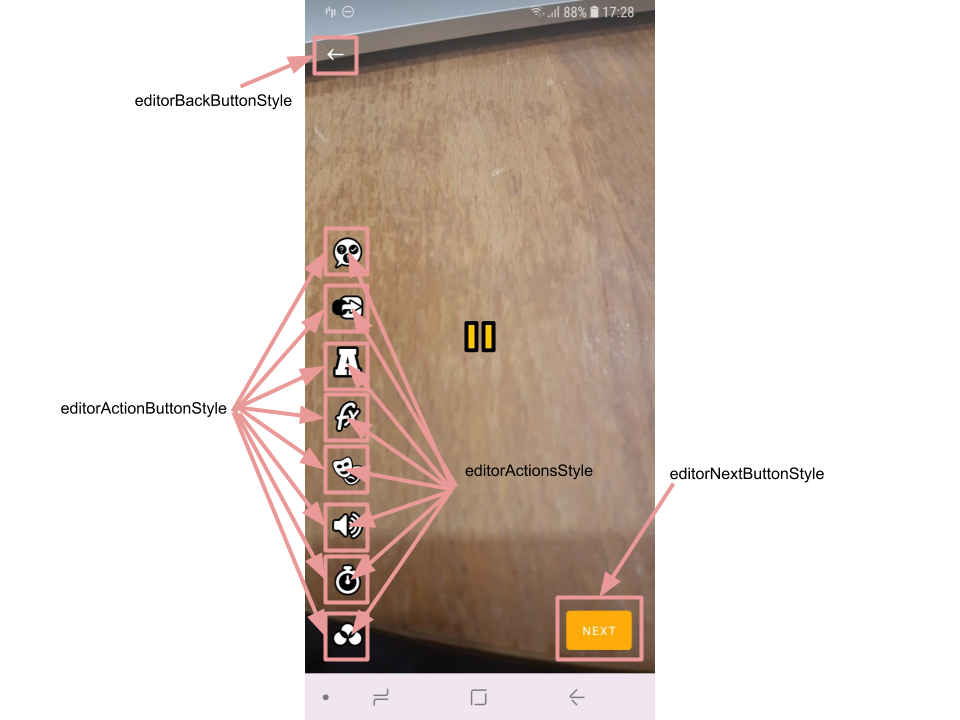
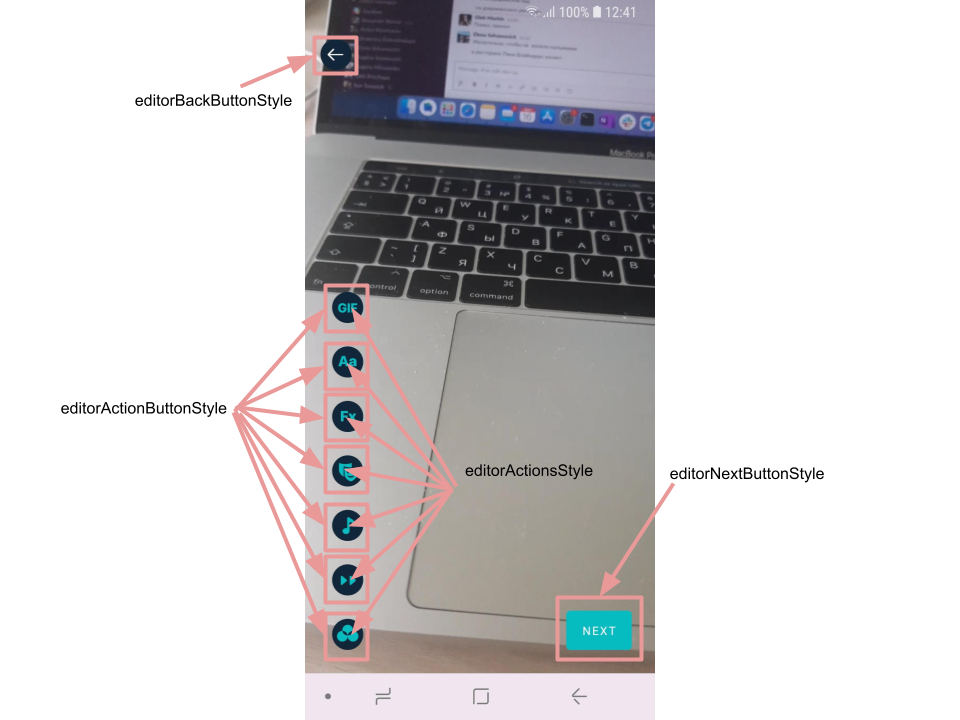
fix editor screen styles

Changed region(s): [[0.2812, 0.0, 0.6875, 0.9778], [0.25, 0.4889, 0.2812, 0.55], [0.2188, 0.55, 0.25, 0.5806]]

diff --git a/mddocs/editor_styles.md b/mddocs/editor_styles.md
@@ -1,89 +1,107 @@
 # Banuba VideoEditor SDK
 ## Editor screen styles
 
-- [editorOverlayStyle](https://github.com/Banuba/ve-sdk-android-integration-sample/blob/main/app/src/main/res/values/themes.xml#L60)
+- [editorOverlayStyle](https://github.com/Banuba/ve-sdk-android-integration-sample/blob/main/app/src/main/res/values/themes.xml#L53)
 
     style defines back icon drawable, playback icon visibility, several editor screen appearance parameters, also setups icons used for voice recording (they can be omitted if music editor feature is enabled)
-- [editorActionsStyle](https://github.com/Banuba/ve-sdk-android-integration-sample/blob/main/app/src/main/res/values/themes.xml#L61)
+- [editorActionsStyle](https://github.com/Banuba/ve-sdk-android-integration-sample/blob/main/app/src/main/res/values/themes.xml#L54)
 
-    style **setups drawables** for all action buttons **on the editor screen** (for instance, [editor_act_icon_masks_off](https://github.com/Banuba/ve-sdk-android-integration-sample/blob/main/app/src/main/res/values/themes.xml#L421) and [editor_act_icon_masks_on](https://github.com/Banuba/ve-sdk-android-integration-sample/blob/main/app/src/main/res/values/themes.xml#L422) setup drawables for an icon that related to AR masks applied to video)
-- [editorActionButtonStyle](https://github.com/Banuba/ve-sdk-android-integration-sample/blob/main/app/src/main/res/values/themes.xml#L62)
+    style **setups drawables** for all action buttons **on the editor screen** (for instance, [editor_act_icon_masks_off](https://github.com/Banuba/ve-sdk-android-integration-sample/blob/main/app/src/main/res/values/themes.xml#L460) and [editor_act_icon_masks_on](https://github.com/Banuba/ve-sdk-android-integration-sample/blob/main/app/src/main/res/values/themes.xml#L461) setup drawables for an icon that related to AR masks applied to video)
+- [editorActionButtonStyle](https://github.com/Banuba/ve-sdk-android-integration-sample/blob/main/app/src/main/res/values/themes.xml#L55)
 
-    style defines how action buttons look like (size, description, margins, etc.). It is applied to every action button on the editor screen
-- [editorBackButtonStyle](https://github.com/Banuba/ve-sdk-android-integration-sample/blob/main/app/src/main/res/values/themes.xml#L63)
+    style defines how action buttons look like (size, title visibility, margins, etc.). It is applied to every action button on the editor screen
+- [editorBackButtonStyle](https://github.com/Banuba/ve-sdk-android-integration-sample/blob/main/app/src/main/res/values/themes.xml#L56)
 
     style for the button that is used to return the user on the previous screen
-- [editorNextButtonStyle](https://github.com/Banuba/ve-sdk-android-integration-sample/blob/main/app/src/main/res/values/themes.xml#L64)
+- [editorNextButtonStyle](https://github.com/Banuba/ve-sdk-android-integration-sample/blob/main/app/src/main/res/values/themes.xml#L57)
 
     style for the button that is used to proceed with current video
 
     ![img](screenshots/editor1.png)
-- [editorTextActionsStyle](https://github.com/Banuba/ve-sdk-android-integration-sample/blob/main/app/src/main/res/values/themes.xml#L65)
+- [editorTextActionsStyle](https://github.com/Banuba/ve-sdk-android-integration-sample/blob/main/app/src/main/res/values/themes.xml#L58)
 
     style setups drawables for text editor options (alignment, background)
-- [editorTextColorLabelStyle](https://github.com/Banuba/ve-sdk-android-integration-sample/blob/main/app/src/main/res/values/themes.xml#L66)
+- [editorTextColorLabelStyle](https://github.com/Banuba/ve-sdk-android-integration-sample/blob/main/app/src/main/res/values/themes.xml#L59)
 
     style for appearance of text label for colors applicable in text editor
-- [editorTextEditorInputStyle](https://github.com/Banuba/ve-sdk-android-integration-sample/blob/main/app/src/main/res/values/themes.xml#L68)
+- [editorTextEditorInputStyle](https://github.com/Banuba/ve-sdk-android-integration-sample/blob/main/app/src/main/res/values/themes.xml#L61)
 
     style for the view used in text editor to create text effect. It should be mentioned that background color, typeface and text color are customized by the user while creating text effect, so you should avoid to setup these attributes in this style. Also input view allows autosizing
-- [editorTypefaceSwitcherStyle](https://github.com/Banuba/ve-sdk-android-integration-sample/blob/main/app/src/main/res/values/themes.xml#L69)
+- [editorTypefaceSwitcherStyle](https://github.com/Banuba/ve-sdk-android-integration-sample/blob/main/app/src/main/res/values/themes.xml#L62)
 
     style for the view that is used to switch typeface in text editor 
-- [editorTextDoneStyle](https://github.com/Banuba/ve-sdk-android-integration-sample/blob/main/app/src/main/res/values/themes.xml#L72)
+- [editorTextDoneStyle](https://github.com/Banuba/ve-sdk-android-integration-sample/blob/main/app/src/main/res/values/themes.xml#L63)
 
     style for the button on the text editor that applies created text effect to the video. It can be the same as editorDoneStyle if you do not need to make them different
 
+- [editorTextColorBackground](https://github.com/Banuba/ve-sdk-android-integration-sample/blob/main/app/src/main/res/values/themes.xml#L60)
+
+    attribute defines a background drawable under the list of available colors on text editor screen (@null can be used if the transparent color is needed)
+
+- [editorTextColorItemBackground](https://github.com/Banuba/ve-sdk-android-integration-sample/blob/main/app/src/main/res/values/themes.xml#L82)
+
+    attribute for the drawable resource that defines a background of every color item in text editor (checkout an [**example**](https://github.com/Banuba/ve-sdk-android-integration-sample/blob/main/app/src/main/res/drawable/bg_checkable_color.xml))
+
     ![img](screenshots/editor2.png)
-- [editorCancelStyle](https://github.com/Banuba/ve-sdk-android-integration-sample/blob/main/app/src/main/res/values/themes.xml#L70)
+- [editorPlaybackControllerParentStyle](https://github.com/Banuba/ve-sdk-android-integration-sample/blob/main/app/src/main/res/values/themes.xml#L78)
 
-    style for the button that is used in case of editing visual, time and color effects to cancel the last added effect or return from editing effect to editor screen
-- [editorDoneStyle](https://github.com/Banuba/ve-sdk-android-integration-sample/blob/main/app/src/main/res/values/themes.xml#L71)
+    style defines appearance of the view containig buttons to control applying effects screen (cancel, play/pause, done)
 
-    style for the button that is used in case of editing visual, time and color effects to apply effects to the video. It should be mentioned that the same button for the text effects is defined by editorTextDoneStyle
-- [editorUndoButtonStyle](https://github.com/Banuba/ve-sdk-android-integration-sample/blob/main/app/src/main/res/values/themes.xml#L74)
+- [editorPlaybackControllerCancelStyle](https://github.com/Banuba/ve-sdk-android-integration-sample/blob/main/app/src/main/res/values/themes.xml#L79)
+
+    style defines cancel button appearance
+
+- [editorPlaybackControllerPlayStyle](https://github.com/Banuba/ve-sdk-android-integration-sample/blob/main/app/src/main/res/values/themes.xml#L80)
+
+    style defines playback button appearance (drawable resource should have two states: activated - for pause icon and non activated for play icon)
+
+- [editorPlaybackControllerDoneStyle](https://github.com/Banuba/ve-sdk-android-integration-sample/blob/main/app/src/main/res/values/themes.xml#L81)
+
+    style defines done button appearance
+
+- [editorUndoButtonStyle](https://github.com/Banuba/ve-sdk-android-integration-sample/blob/main/app/src/main/res/values/themes.xml#L65)
 
     style for the button that is used to remove the last added effect on visual or time effects editor
-- [editorVisualAndTimeEffectsRecyclerStyle](https://github.com/Banuba/ve-sdk-android-integration-sample/blob/main/app/src/main/res/values/themes.xml#L75)
+- [editorVisualAndTimeEffectsRecyclerStyle](https://github.com/Banuba/ve-sdk-android-integration-sample/blob/main/app/src/main/res/values/themes.xml#L66)
 
     style for the RecyclerView containing visual or time effects
-- [editorApplyEffectHintStyle](https://github.com/Banuba/ve-sdk-android-integration-sample/blob/main/app/src/main/res/values/themes.xml#L78)
+- [editorApplyEffectHintStyle](https://github.com/Banuba/ve-sdk-android-integration-sample/blob/main/app/src/main/res/values/themes.xml#L69)
 
     style for the TextView that shows a hint on visual/time effects editor
-- [editorTimelineStyle](https://github.com/Banuba/ve-sdk-android-integration-sample/blob/main/app/src/main/res/values/themes.xml#L86)
+- [editorTimelineStyle](https://github.com/Banuba/ve-sdk-android-integration-sample/blob/main/app/src/main/res/values/themes.xml#L77)
 
     style for the timeline that represents effects applied on the video in case of editing visual or time effects
 
-- [actionableEffectTitleStyle](https://github.com/Banuba/ve-sdk-android-integration-sample/blob/main/app/src/main/res/values/themes.xml#L38)
+- [actionableEffectTitleStyle](https://github.com/Banuba/ve-sdk-android-integration-sample/blob/main/app/src/main/res/values/themes.xml#L31)
 
     style is used to set text appearance for "actionable" effects (applied by long pressing) title. This type of effects includes: 
     - visual effects on editor screen
     - time effects on editor screen
     - AR masks on editor screen
     
-    The other effects type - "checkable" - defined in [camera styles](camera_styles.md#L54)
+    The other effects type - "checkable" - defined in [camera styles](camera_styles.md#L52)
 
-- [editorEffectVisualStyle](https://github.com/Banuba/ve-sdk-android-integration-sample/blob/main/app/src/main/res/values/themes.xml#L79)
+- [editorEffectVisualStyle](https://github.com/Banuba/ve-sdk-android-integration-sample/blob/main/app/src/main/res/values/themes.xml#L70)
 
     style for the every item in the visual effects list
 
     ![img](screenshots/editor3.png)
-- [editorEffectTimeStyle](https://github.com/Banuba/ve-sdk-android-integration-sample/blob/main/app/src/main/res/values/themes.xml#L80)
+- [editorEffectTimeStyle](https://github.com/Banuba/ve-sdk-android-integration-sample/blob/main/app/src/main/res/values/themes.xml#L71)
 
     style for the every item in the time effects list
-- [editorEffectMaskStyle](https://github.com/Banuba/ve-sdk-android-integration-sample/blob/main/app/src/main/res/values/themes.xml#L81)
+- [editorEffectMaskStyle](https://github.com/Banuba/ve-sdk-android-integration-sample/blob/main/app/src/main/res/values/themes.xml#L72)
 
     style for the every item in the AR mask effects list
-- [editorEffectLutItemStyle](https://github.com/Banuba/ve-sdk-android-integration-sample/blob/main/app/src/main/res/values/themes.xml#L82)
+- [editorEffectLutItemStyle](https://github.com/Banuba/ve-sdk-android-integration-sample/blob/main/app/src/main/res/values/themes.xml#L73)
 
     style for the every item in the color filters list
-- [editorColorEffectsLabelStyle](https://github.com/Banuba/ve-sdk-android-integration-sample/blob/main/app/src/main/res/values/themes.xml#L83)
+- [editorColorEffectsLabelStyle](https://github.com/Banuba/ve-sdk-android-integration-sample/blob/main/app/src/main/res/values/themes.xml#L74)
 
-    style for the color filter list label. By default the label is not visible so this style can be omitted. This style is similar to [cameraEffectsLabelStyle](camera_styles.md#L35) for camera screen
-- [editorColorEffectsRecyclerStyle](https://github.com/Banuba/ve-sdk-android-integration-sample/blob/main/app/src/main/res/values/themes.xml#L84)
+    style for the color filter list label. By default the label is not visible so this style can be omitted. This style is similar to [cameraEffectsLabelStyle](camera_styles.md#L33) for camera screen
+- [editorColorEffectsRecyclerStyle](https://github.com/Banuba/ve-sdk-android-integration-sample/blob/main/app/src/main/res/values/themes.xml#L75)
 
-    style applied to RecyclerView containing color filters. This style is similar to [cameraEffectsRecyclerStyle](camera_styles.md#L41) for camera screen
-- [editorBoardStyle](https://github.com/Banuba/ve-sdk-android-integration-sample/blob/main/app/src/main/res/values/themes.xml#L73)
+    style applied to RecyclerView containing color filters. This style is similar to [cameraEffectsRecyclerStyle](camera_styles.md#L39) for camera screen
+- [editorBoardStyle](https://github.com/Banuba/ve-sdk-android-integration-sample/blob/main/app/src/main/res/values/themes.xml#L64)
 
     style for the custom view that holds all visual effects on the editor screen. This view handles different touch actions (drag, zoom in or out) on effects. It has a bulk of custom attributes that setup its appearance depends on user action
 
